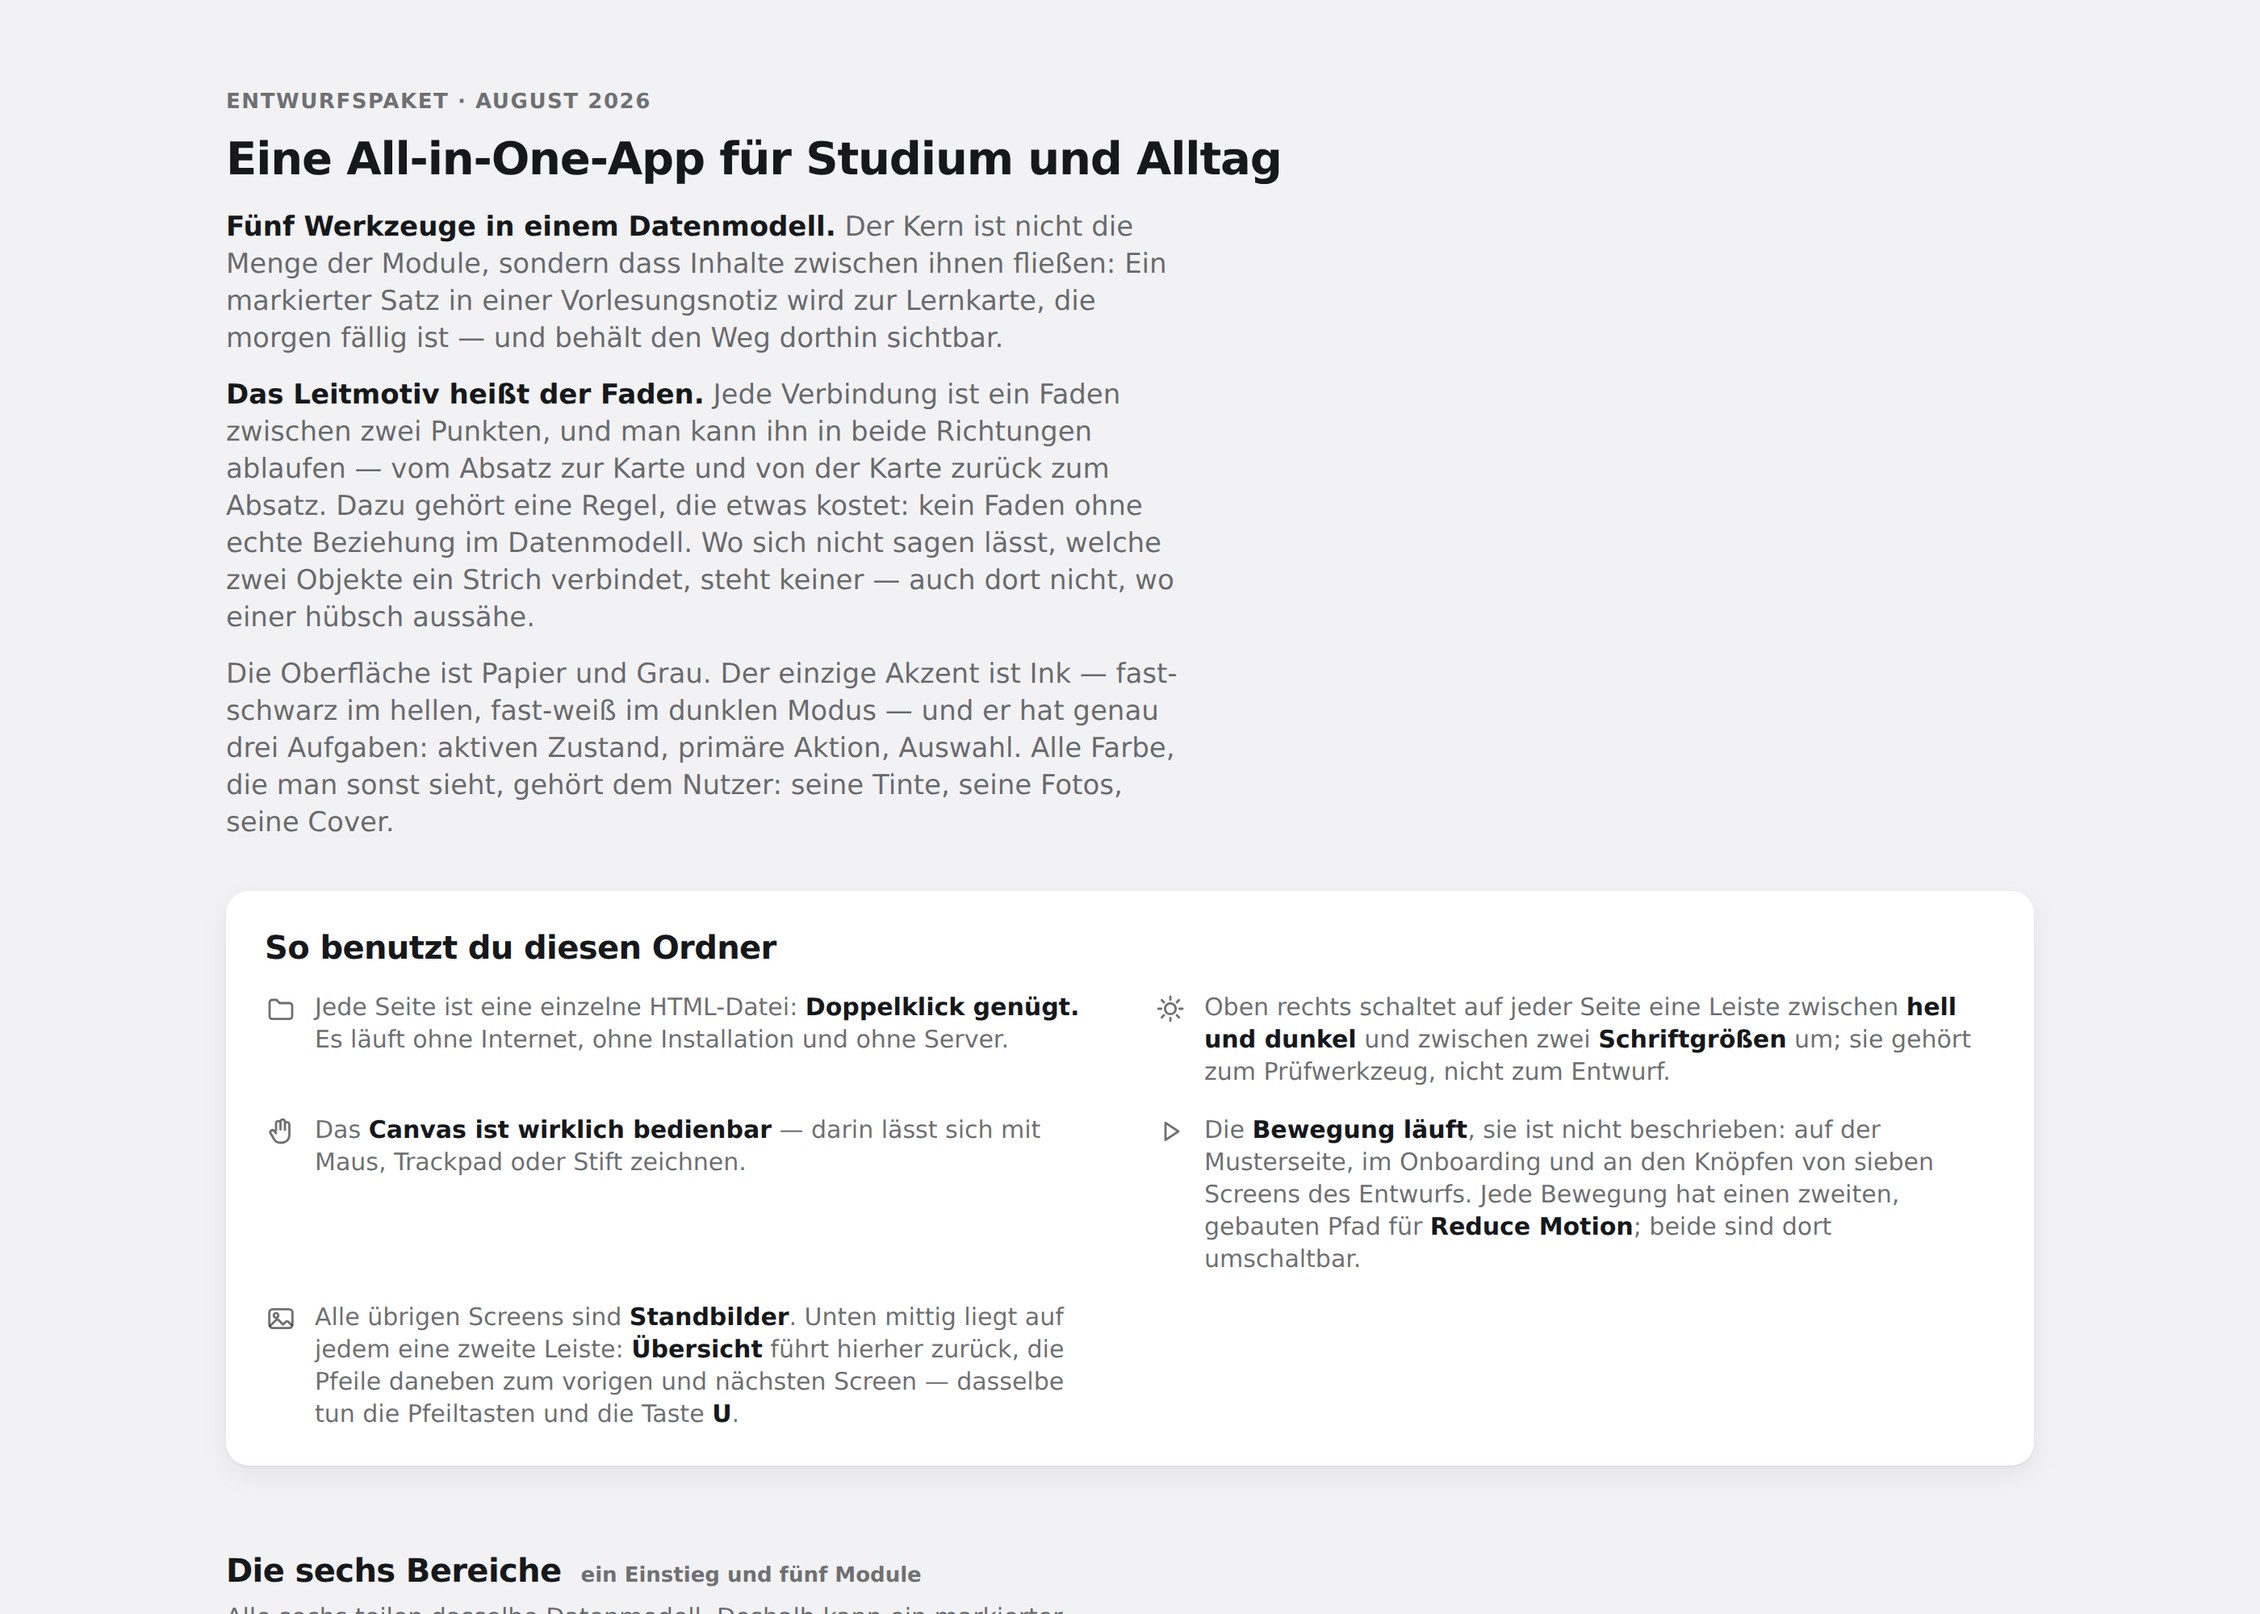
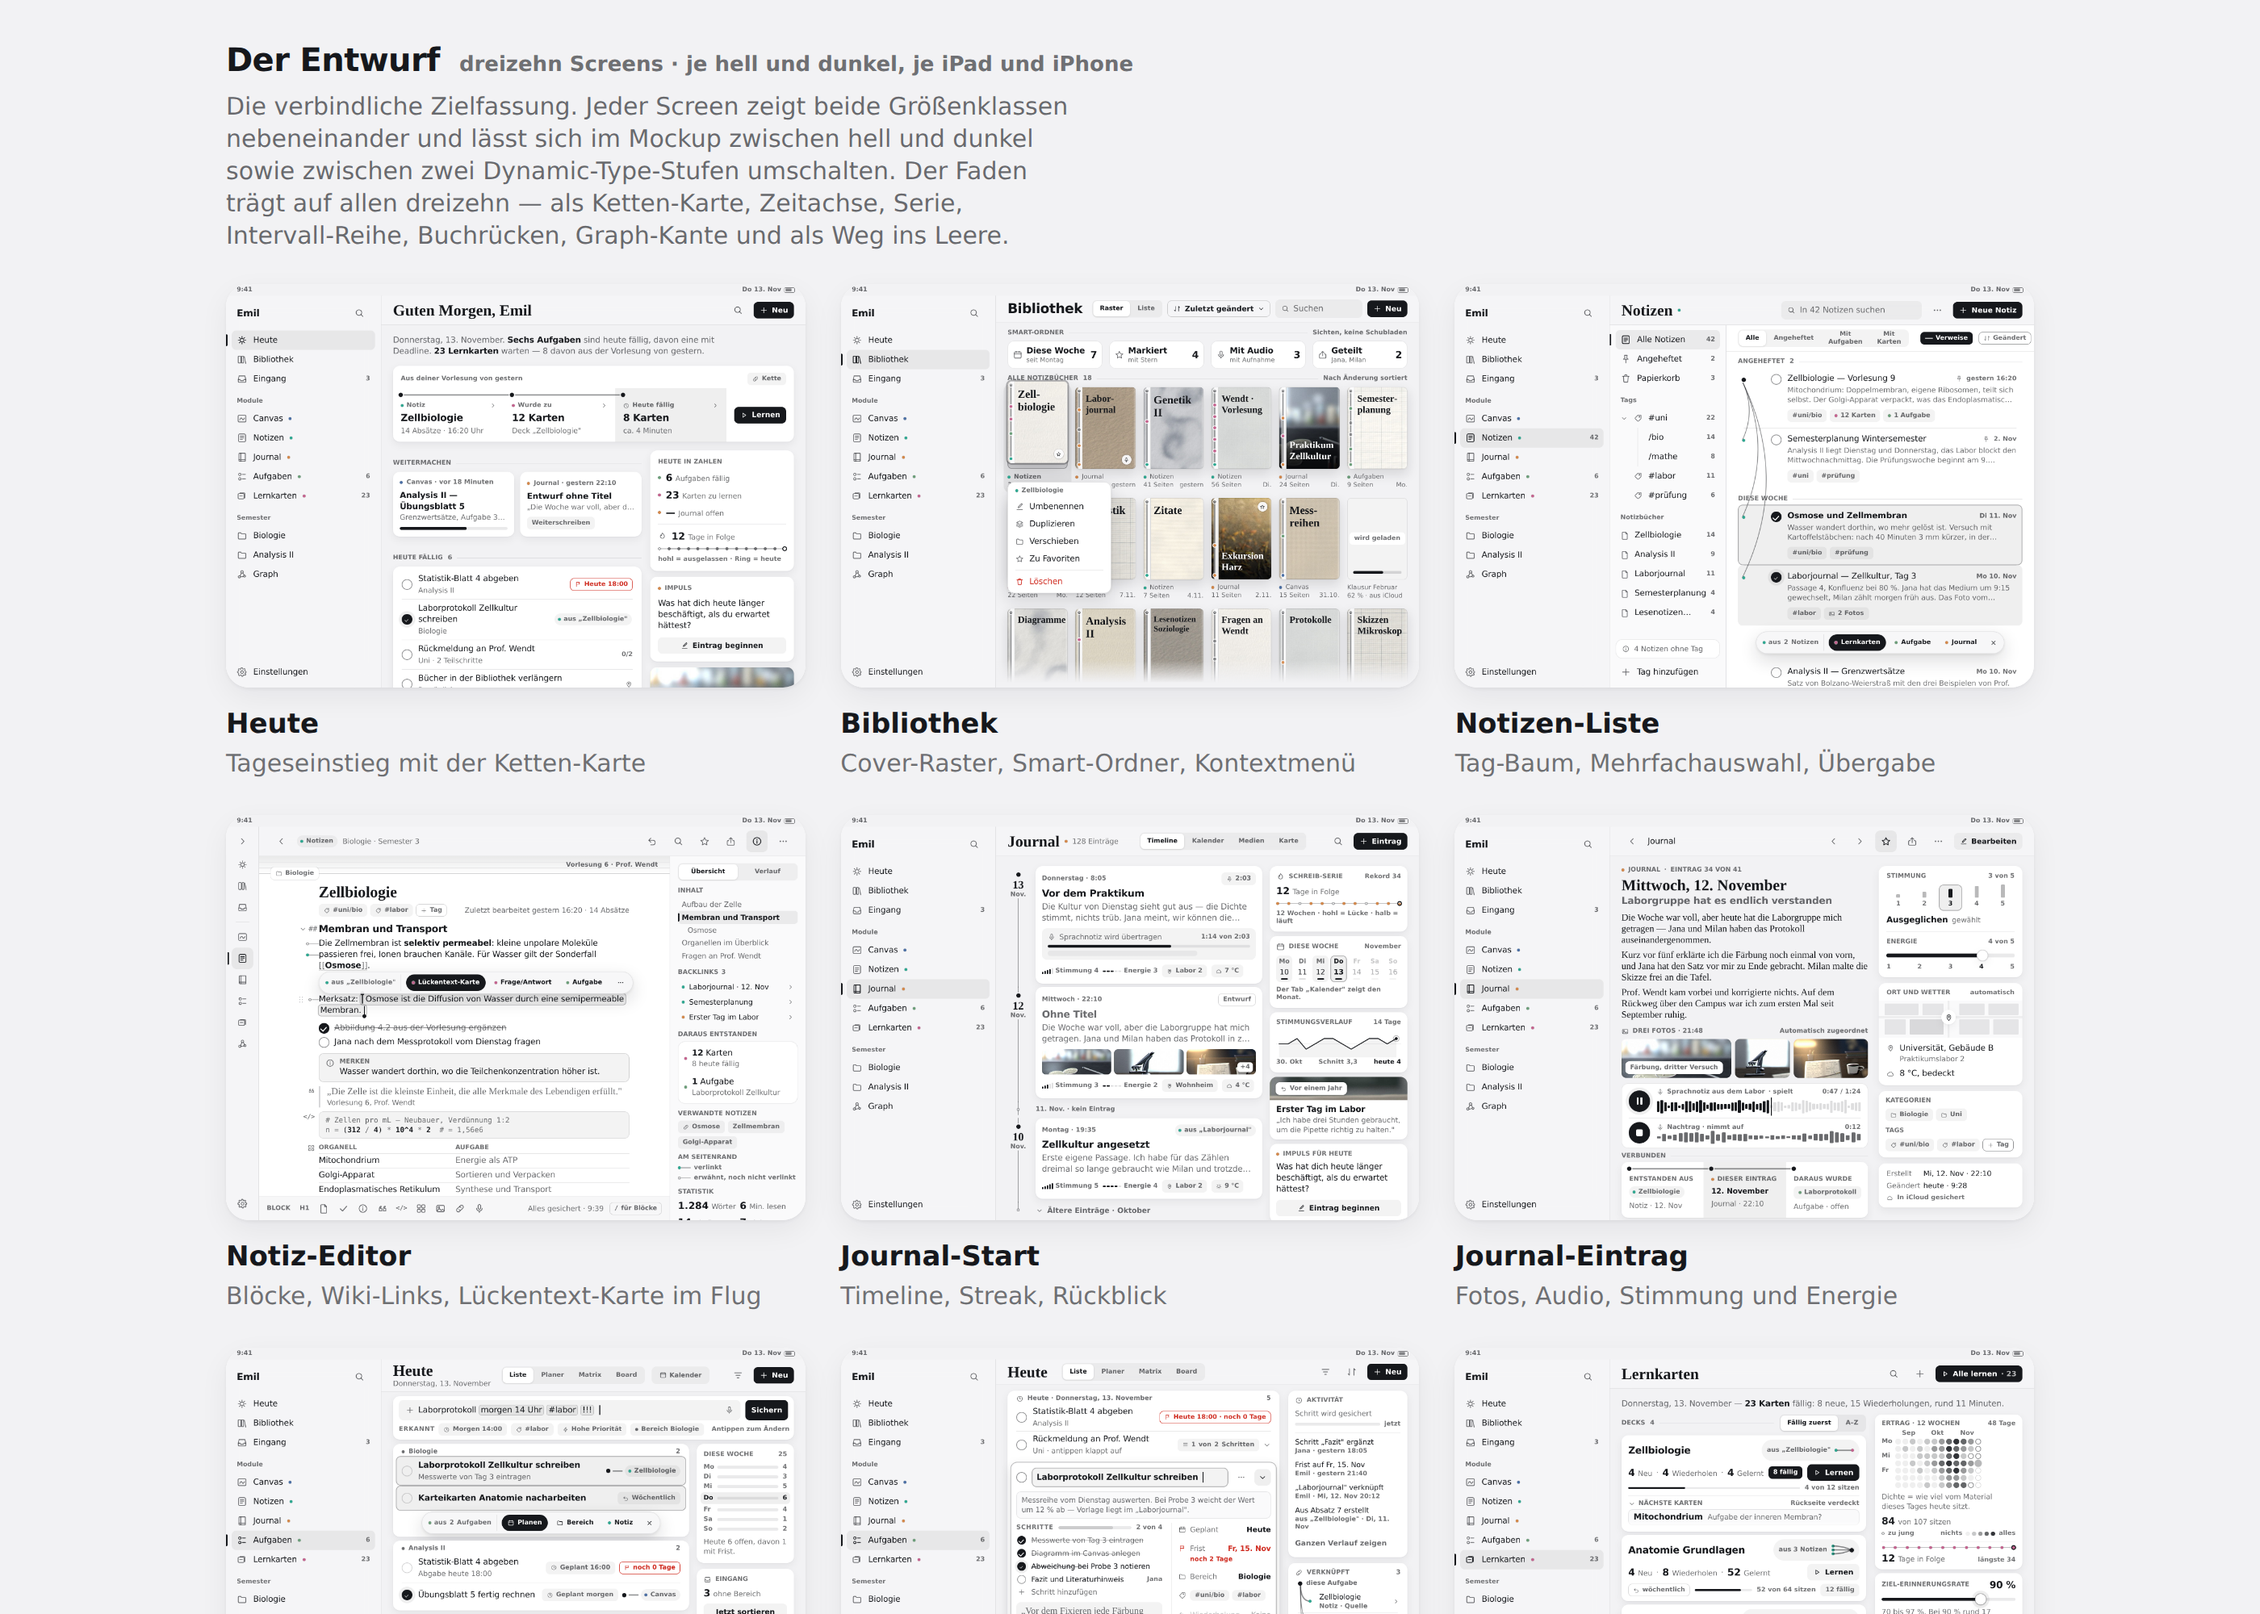
Der Render-Lauf ist durch — 115 Bilder, uebersicht.png zuletzt
tools/rendern.js ist auf 684 Zeilen gewachsen und deckt jetzt alles ab:
die Geraete-Aufnahmen der 19 Screens, die Bewegungs- und Plattformseiten,
die beiden Musterseiten, das Canvas, drei Kontaktboegen und die
Uebersichtsaufnahme.

Beide Dateien vor dem Commit geprueft: das PNG traegt Signatur und
IEND-Chunk, das Skript besteht die Syntaxpruefung.

Damit zeigen die Vorschaubilder der Uebersichtsseite und der Galerie zum
ersten Mal den Stand von Runde 2 statt den Entwurf aus Runde 1.

Claude-Session: https://claude.ai/code/session_01JWcNAjygaW1ev1sC5tXzbz

diff --git a/tools/rendern.js b/tools/rendern.js
@@ -654,6 +654,14 @@ async function main() {
       try { await document.fonts.ready; } catch (e) {}
     });
     await page.waitForTimeout(2500);
+    /* Nicht die Kopfzeile aufnehmen, sondern die Kacheln: das Bild soll
+       zeigen, was im Ordner liegt, nicht was darüber steht. */
+    await page.evaluate(() => {
+      const g = document.getElementById('gridNext');
+      const kopf = g && g.closest('.sec') ? g.closest('.sec') : g;
+      if (kopf) window.scrollTo(0, Math.max(0, window.scrollY + kopf.getBoundingClientRect().top - 24));
+    });
+    await page.waitForTimeout(700);
     await page.screenshot({ path: path.join(ZIEL, 'uebersicht.png'), ...SCHUSS });
     bericht.push({ name: 'uebersicht.png', w: 1400, h: 1000 });
     await ctx.close();
